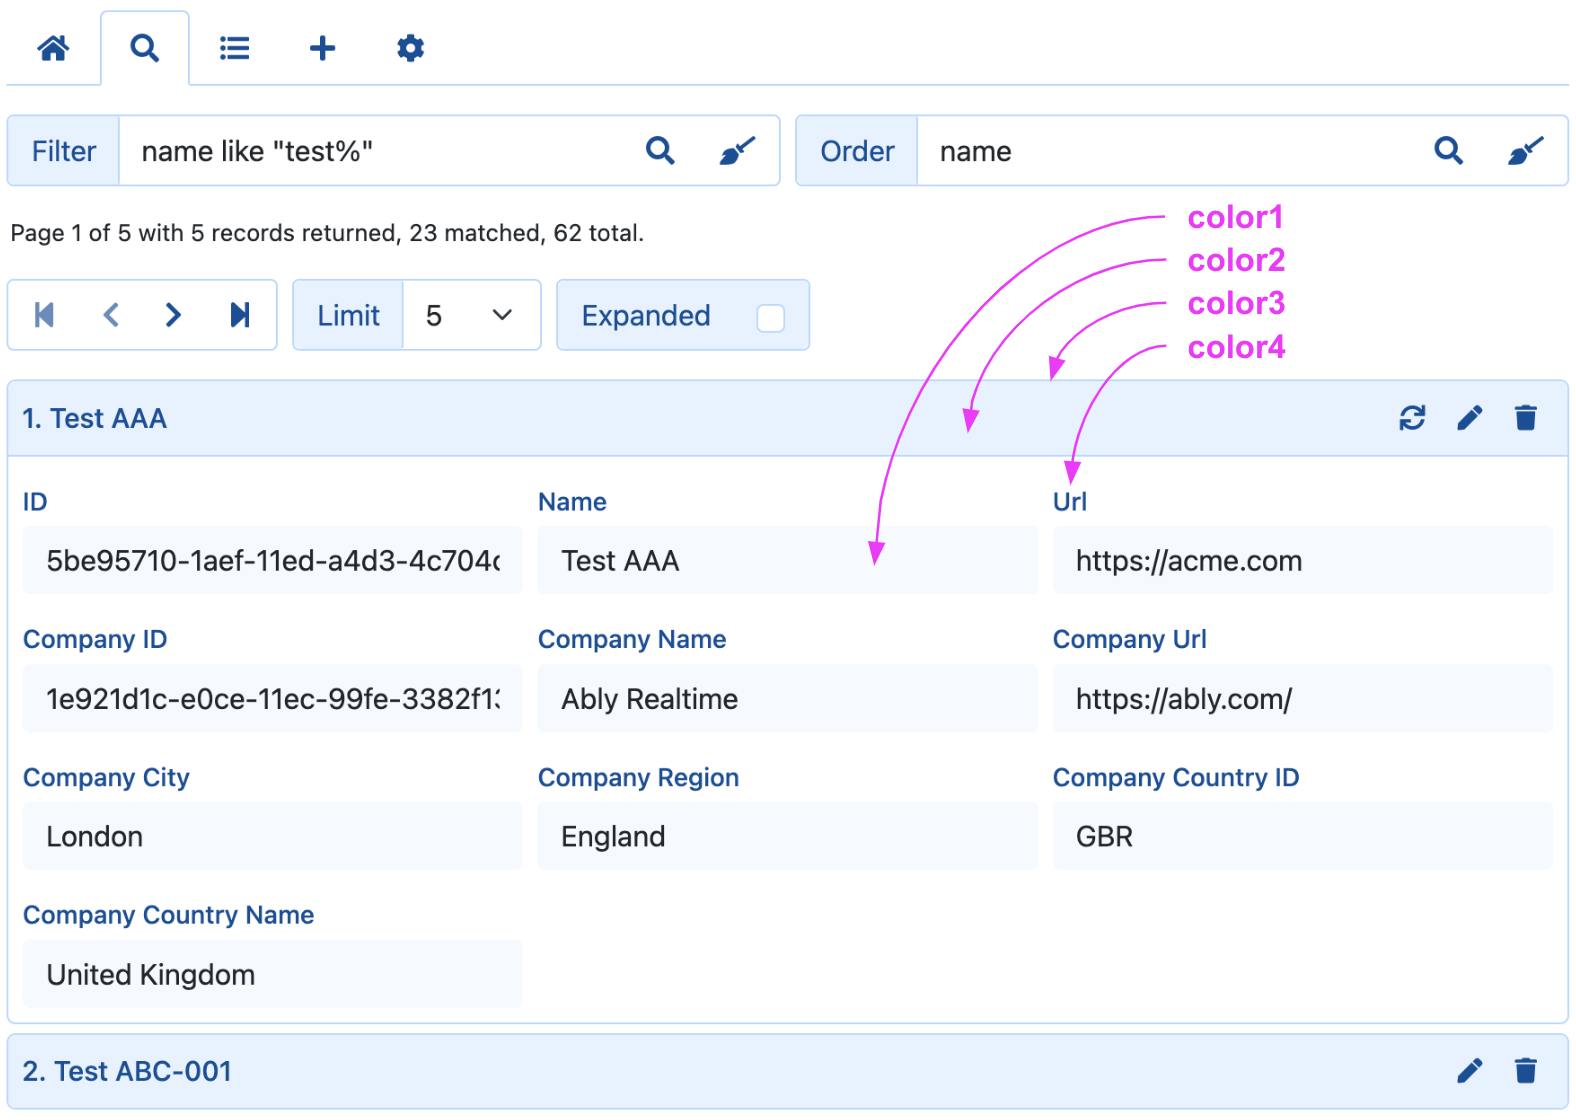
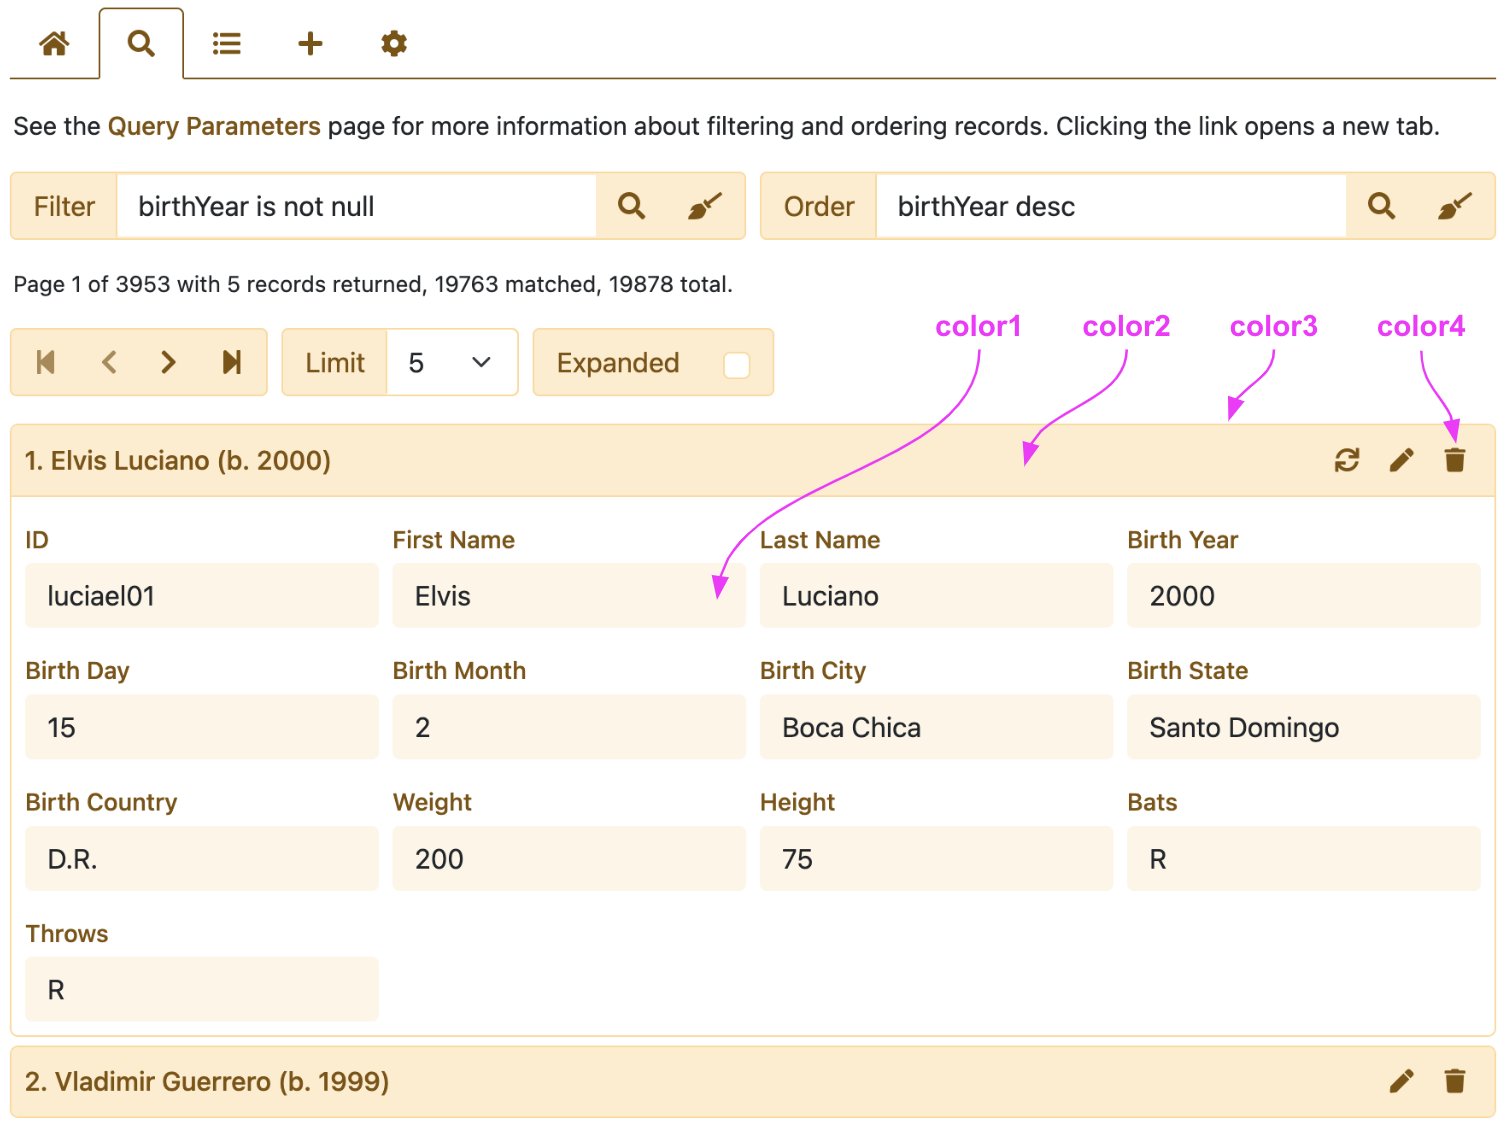
Augmenting themes.

diff --git a/assets/hhdatalist/HHDataList.css b/assets/hhdatalist/HHDataList.css
@@ -87,17 +87,20 @@ div.hh-data-list .form-check-input {
 * CONTROL ROW
 **********************************/
 
-div.hh-data-list ul.hh-tabs {
-  border-bottom-color: var(--hh-color-3) !important;
+div.hh-data-list ul.nav-tabs {
+  border-bottom: 1px solid var(--hh-color-4);
 }
 
-div.hh-data-list ul.hh-tabs button.nav-link {
-  border-color: transparent !important;
+div.hh-data-list ul.nav-tabs>li>button {
+  border: 1px solid transparent !important;
   color: var(--hh-color-4);
 }
 
-div.hh-data-list ul.hh-tabs button.nav-link.active {
-  border-color: var(--hh-color-3) var(--hh-color-3) #fff !important;
+div.hh-data-list ul.nav-tabs>li>button.active {
+  border-top-color: var(--hh-color-4) !important;
+  border-right-color: var(--hh-color-4) !important;
+  border-left-color: var(--hh-color-4) !important;
+  color: var(--hh-color-4);
 }
 
 div.hh-data-list div.hh-paginator,
@@ -105,6 +108,7 @@ div.hh-data-list div.hh-limiter,
 div.hh-data-list div.hh-expander,
 div.hh-data-list div.hh-filter-group,
 div.hh-data-list div.hh-order-group {
+  background: var(--hh-color-2);
   border: 1px solid var(--hh-color-3);
   border-radius: .25rem;
 }
@@ -171,6 +175,11 @@ div.hh-data-list div.hh-fields-wrapper {
 div.hh-data-list div.tab-content div.tab-pane div.hh-tab-description {
   font-size: 92%;
   margin-left: 2px;
+}
+
+div.hh-data-list div.tab-content div.tab-pane div.hh-tab-description>a {
+  color: var(--hh-color-4) !important;
+  font-weight: 500;
 }
 
 div.hh-data-list div.tab-content div.hh-home-pane button:not(:hover),

diff --git a/assets/hhdatalist/HHDataList.js b/assets/hhdatalist/HHDataList.js
@@ -1,5 +1,5 @@
 const hhDataListThemes = new Map();
-hhDataListThemes.set('blue', { color1: '#f5faff', color2: '#e6f2ff', color3: '#b3d9ff', color4: '#004d99' });
+hhDataListThemes.set('blue', { color1: '#edf3f8', color2: '#dae7f1', color3: '#b6cee2', color4: '#325d81' });
 hhDataListThemes.set('green', { color1: '#eafaea', color2: '#eafaea', color3: '#adebad', color4: '#196719' });
 hhDataListThemes.set('orange', { color1: '#fff6e6', color2: '#ffedcc', color3: '#ffdb99', color4: '#805300' });
 hhDataListThemes.set('red', { color1: '#fef8f7', color2: '#ffe6e6', color3: '#ffb3b3', color4: '#660000' });

diff --git a/en/docs/book.html b/en/docs/book.html
@@ -18,6 +18,8 @@
     <div id="en_docs_rest-api" class="chapter-title">REST API</div>
     <div class="pages" style="display:none;">
       <div id="en_docs_rest-api_examples" class="page-title">Examples</div>
+      <div id="en_docs_rest-api_query-parameters" class="page-title">Query Parameters</div>
+      <div id="en_docs_rest-api_status-codes" class="page-title">Status Codes</div>
     </div>
   </div>
 </div>

diff --git a/en/docs/hhdatalist/examples/index.md b/en/docs/hhdatalist/examples/index.md
@@ -4,59 +4,6 @@
 
 The Baseball API is a Hagenhaus REST API ...
 
-## Leagues
-
-<div id="baseball-leagues-datalist" class="hh-data-list"></div>
-
-<script>
-  new HHDataList({
-    confirm: confirm,
-    id: 'baseball-leagues-datalist',
-    recordColumnCount: 3,
-    recordIdField: 'lgID',
-    recordTitleFields: ['league'],
-    reportError: (error) => { reportError(error); },
-    reportInfo: (info) => { reportInfo(info); },
-    url: 'http://localhost:8081/api/baseball/v1/leagues',
-  });
-</script>
-
-## Managers
-
-<div id="baseball-managers-datalist" class="hh-data-list"></div>
-
-<script>
-  new HHDataList({
-    confirm: confirm,
-    id: 'baseball-managers-datalist',
-    recordColumnCount: 4,
-    recordIdField: 'ID',
-    recordTitleFields: ['playerID','yearID'],
-    recordTitleFormat: (f, r) => `${r[f[0]]} (${r[f[1]]})`,
-    reportError: (error) => { reportError(error); },
-    reportInfo: (info) => { reportInfo(info); },
-    theme: 'Red',
-    url: 'http://localhost:8081/api/baseball/v1/managers',
-  });
-</script>
-
-## Parks
-
-<div id="baseball-parks-datalist" class="hh-data-list"></div>
-
-<script>
-  new HHDataList({
-    confirm: confirm,
-    id: 'baseball-parks-datalist',
-    recordIdField: 'ID',
-    recordTitleFields: ['parkname'],
-    reportError: (error) => { reportError(error); },
-    reportInfo: (info) => { reportInfo(info); },
-    theme: 'green',
-    url: 'http://localhost:8081/api/baseball/v1/parks',
-  });
-</script>
-
 ## Players
 
 <div id="baseball-players-datalist" class="hh-data-list"></div>
@@ -78,16 +25,27 @@ The Baseball API is a Hagenhaus REST API ...
       { name: 'playerID', label: 'ID' },
       { name: 'nameFirst', label: 'First Name', isEditable: true, isRequired: true },
       { name: 'nameLast', label: 'Last Name', isEditable: true, isRequired: true },
+      { name: 'nameGiven', label: 'Given Name', isEditable: true, isRequired: true, isChecked: false },
       { name: 'birthDay', label: 'Birth Day', isEditable: true, isRequired: false },
       { name: 'birthMonth', label: 'Birth Month', isEditable: true, isRequired: false },
       { name: 'birthYear', label: 'Birth Year', isEditable: true, isRequired: false },
       { name: 'birthCity', label: 'Birth City', isEditable: true, isRequired: false },
       { name: 'birthState', label: 'Birth State', isEditable: true, isRequired: false },
       { name: 'birthCountry', label: 'Birth Country', isEditable: true, isRequired: false },
+      { name: 'deathDay', label: 'Death Day', isEditable: true, isRequired: false, isChecked: false },
+      { name: 'deathMonth', label: 'Death Month', isEditable: true, isRequired: false, isChecked: false },
+      { name: 'deathYear', label: 'Death Year', isEditable: true, isRequired: false, isChecked: false },
+      { name: 'deathCity', label: 'Death City', isEditable: true, isRequired: false, isChecked: false },
+      { name: 'deathState', label: 'Death State', isEditable: true, isRequired: false, isChecked: false },
+      { name: 'deathCountry', label: 'Death Country', isEditable: true, isRequired: false, isChecked: false },
       { name: 'weight', label: 'Weight', isEditable: true, isRequired: false },
       { name: 'height', label: 'Height', isEditable: true, isRequired: false },
       { name: 'bats', label: 'Bats', isEditable: true, isRequired: false },
       { name: 'throws', label: 'Throws', isEditable: true, isRequired: false },
+      { name: 'debut', label: 'Debut Date', isEditable: true, isRequired: false, isChecked: false },
+      { name: 'finalGame', label: 'Final Game Date', isEditable: true, isRequired: false, isChecked: false },
+      { name: 'retroID', label: 'retroID', isEditable: true, isRequired: false, isChecked: false },
+      { name: 'bbrefID', label: 'bbrefID', isEditable: true, isRequired: false, isChecked: false },    
     ],
     recordIdField: 'playerID',
     recordsAreExpanded: false,
@@ -96,16 +54,16 @@ The Baseball API is a Hagenhaus REST API ...
     recordTitleFormat: (f, r) => `${r[f[0]] ? r[f[0]] : ''} ${r[f[1]]} (b. ${r[f[2]] ? r[f[2]] : 'unknown'})`,
     reportError: (error) => { reportError(error); },
     reportInfo: (info) => { reportInfo(info); },
-    showTabDescriptions: false,
+    showTabDescriptions: true,
     tabDescriptions: {
       home: 'Neque porro quisquam est, qui dolorem ipsum quia dolor sit amet, consectetur, adipisci velit, sed quia non numquam eius modi tempora incidunt ut labore et dolore magnam aliquam quaerat voluptatem. Ut enim ad minima veniam, quis nostrum exercitationem ullam corporis suscipit laboriosam, nisi ut aliquid ex ea commodi consequatur? Quis autem vel eum iure reprehenderit qui in ea voluptate velit esse quam nihil molestiae consequatur, vel illum qui dolorem eum fugiat quo voluptas nulla pariatur',
-      search: 'At vero eos et accusamus et iusto odio dignissimos ducimus qui blanditiis praesentium voluptatum deleniti atque corrupti quos dolores et quas molestias excepturi sint occaecati cupiditate non provident, similique sunt in culpa qui officia deserunt mollitia animi, id est laborum et dolorum fuga. Et harum quidem rerum facilis est et expedita distinctio.',
+      search: 'See the <a href="/en/docs/rest-api/query-parameters/" target="_blank">Query Parameters</a> page for more information about filtering and ordering records. Clicking the link opens a new tab.',
       fields: 'Nam libero tempore, cum soluta nobis est eligendi optio cumque nihil impedit quo minus id quod maxime placeat facere possimus, omnis voluptas assumenda est, omnis dolor repellendus. Temporibus autem quibusdam et aut officiis debitis aut rerum necessitatibus saepe eveniet ut et voluptates repudiandae sint et molestiae non recusandae. Itaque earum rerum hic tenetur a sapiente delectus, ut aut reiciendis voluptatibus maiores alias consequatur aut perferendis doloribus asperiores repellat.',
       newCreate: 'Sed ut perspiciatis unde omnis iste natus error sit voluptatem accusantium doloremque laudantium, totam rem aperiam, eaque ipsa quae ab illo inventore veritatis et quasi architecto beatae vitae dicta sunt explicabo. Nemo enim ipsam voluptatem quia voluptas sit aspernatur aut odit aut fugit, sed quia consequuntur magni dolores eos qui ratione voluptatem sequi nesciunt.',
       newCreated: 'Excepteur sint occaecat cupidatat non proident, sunt in culpa qui officia deserunt mollit anim id est laborum.',
       config: 'Lorem ipsum dolor sit amet, consectetur adipiscing elit, sed do eiusmod tempor incididunt ut labore et dolore magna aliqua. Ut enim ad minim veniam, quis nostrud exercitation ullamco laboris nisi ut aliquip ex ea commodo consequat. Duis aute irure dolor in reprehenderit in voluptate velit esse cillum dolore eu fugiat nulla pariatur. Excepteur sint occaecat cupidatat non proident, sunt in culpa qui officia deserunt mollit anim id est laborum.'
     },
-    theme: 'orange',
+    theme: 'blue',
     url: 'http://localhost:8081/api/baseball/v1/players',
   });
 </script>
@@ -126,6 +84,60 @@ The Baseball API is a Hagenhaus REST API ...
     reportInfo: (info) => { reportInfo(info); },
     theme: 'silver',
     url: 'http://localhost:8081/api/baseball/v1/teams',
+  });
+</script>
+
+## Leagues
+
+<div id="baseball-leagues-datalist" class="hh-data-list"></div>
+
+<script>
+  new HHDataList({
+    confirm: confirm,
+    id: 'baseball-leagues-datalist',
+    recordColumnCount: 3,
+    recordIdField: 'lgID',
+    recordTitleFields: ['league'],
+    reportError: (error) => { reportError(error); },
+    reportInfo: (info) => { reportInfo(info); },
+    theme: 'orange',
+    url: 'http://localhost:8081/api/baseball/v1/leagues',
+  });
+</script>
+
+## Parks
+
+<div id="baseball-parks-datalist" class="hh-data-list"></div>
+
+<script>
+  new HHDataList({
+    confirm: confirm,
+    id: 'baseball-parks-datalist',
+    recordIdField: 'ID',
+    recordTitleFields: ['parkname'],
+    reportError: (error) => { reportError(error); },
+    reportInfo: (info) => { reportInfo(info); },
+    theme: 'green',
+    url: 'http://localhost:8081/api/baseball/v1/parks',
+  });
+</script>
+
+## Managers
+
+<div id="baseball-managers-datalist" class="hh-data-list"></div>
+
+<script>
+  new HHDataList({
+    confirm: confirm,
+    id: 'baseball-managers-datalist',
+    recordColumnCount: 4,
+    recordIdField: 'ID',
+    recordTitleFields: ['playerID','yearID'],
+    recordTitleFormat: (f, r) => `${r[f[0]]} (${r[f[1]]})`,
+    reportError: (error) => { reportError(error); },
+    reportInfo: (info) => { reportInfo(info); },
+    theme: 'Red',
+    url: 'http://localhost:8081/api/baseball/v1/managers',
   });
 </script>
 
@@ -169,7 +181,16 @@ The Baseball API is a Hagenhaus REST API ...
     recordTitleFormat: (f, r) => r[f[0]],
     reportError: (error) => { reportError(error); },
     reportInfo: (info) => { reportInfo(info); },
-    showTabDescriptions: false,
+    showTabDescriptions: true,
+    tabDescriptions: {
+      home: 'Neque porro quisquam est, qui dolorem ipsum quia dolor sit amet, consectetur, adipisci velit, sed quia non numquam eius modi tempora incidunt ut labore et dolore magnam aliquam quaerat voluptatem. Ut enim ad minima veniam, quis nostrum exercitationem ullam corporis suscipit laboriosam, nisi ut aliquid ex ea commodi consequatur? Quis autem vel eum iure reprehenderit qui in ea voluptate velit esse quam nihil molestiae consequatur, vel illum qui dolorem eum fugiat quo voluptas nulla pariatur',
+      search: 'At vero eos et accusamus et iusto odio dignissimos ducimus qui blanditiis praesentium voluptatum deleniti atque corrupti quos dolores et quas molestias excepturi sint occaecati cupiditate non provident, similique sunt in culpa qui officia deserunt mollitia animi, id est laborum et dolorum fuga. Et harum quidem rerum facilis est et expedita distinctio.',
+      fields: 'Nam libero tempore, cum soluta nobis est eligendi optio cumque nihil impedit quo minus id quod maxime placeat facere possimus, omnis voluptas assumenda est, omnis dolor repellendus. Temporibus autem quibusdam et aut officiis debitis aut rerum necessitatibus saepe eveniet ut et voluptates repudiandae sint et molestiae non recusandae. Itaque earum rerum hic tenetur a sapiente delectus, ut aut reiciendis voluptatibus maiores alias consequatur aut perferendis doloribus asperiores repellat.',
+      newCreate: 'Sed ut perspiciatis unde omnis iste natus error sit voluptatem accusantium doloremque laudantium, totam rem aperiam, eaque ipsa quae ab illo inventore veritatis et quasi architecto beatae vitae dicta sunt explicabo. Nemo enim ipsam voluptatem quia voluptas sit aspernatur aut odit aut fugit, sed quia consequuntur magni dolores eos qui ratione voluptatem sequi nesciunt.',
+      newCreated: 'Excepteur sint occaecat cupidatat non proident, sunt in culpa qui officia deserunt mollit anim id est laborum.',
+      config: 'Lorem ipsum dolor sit amet, consectetur adipiscing elit, sed do eiusmod tempor incididunt ut labore et dolore magna aliqua. Ut enim ad minim veniam, quis nostrud exercitation ullamco laboris nisi ut aliquip ex ea commodo consequat. Duis aute irure dolor in reprehenderit in voluptate velit esse cillum dolore eu fugiat nulla pariatur. Excepteur sint occaecat cupidatat non proident, sunt in culpa qui officia deserunt mollit anim id est laborum.'
+    },
+    theme: 'blue',
     urls: {
       deleteRecord: 'http://localhost:8081/api/devportals/v1/portals',
       getRecord: 'http://localhost:8081/api/devportals/v1/portals',

diff --git a/en/docs/hhdatalist/guide/index.md b/en/docs/hhdatalist/guide/index.md
@@ -2,7 +2,7 @@
 
 # User Interface
 
-<p><img src="ui.png" class="img-fluid d-block" width=900 height=432 loading="lazy"></p>
+<p><img src="ui.png" class="img-fluid d-block" width=800 height=567 loading="lazy"></p>
 
 # Assistive Technology
 
@@ -32,4 +32,4 @@ HHDataList generates an *information* message when a request returns successfull
 
 # Themes
 
-<p><img src="theme-colors.png" class="img-fluid d-block" width=800 height=569 loading="lazy"></p>
+<p><img src="theme-colors.png" class="img-fluid d-block" width=685 height=512 loading="lazy"></p>

diff --git a/en/docs/hhdatalist/tutorial/index.md b/en/docs/hhdatalist/tutorial/index.md
@@ -37,3 +37,5 @@
 # Notes
 
 1. It is useful to use swagger to get a field list. Use the field list to define recordFields.
+1. Clear fields and then add them in the order you want to see them. Like, for Baseball Players, add first name, last name, birth year, death year. 
+1. Find all the players where playerID != bbrefID.

diff --git a/en/docs/rest-api/query-parameters/index.md b/en/docs/rest-api/query-parameters/index.md
@@ -1,0 +1,22 @@
+# Query Parameters
+
+https://www.w3resource.com/mysql/comparision-functions-and-operators/not-equal-operator.php
+
+# allowJoinedFields
+
+# fields
+
+# filter
+
+# hasFieldList
+
+# hasMetadata
+
+# hasRecords
+
+# limit
+
+# order
+
+# page
+

diff --git a/en/docs/rest-api/status-codes/index.md b/en/docs/rest-api/status-codes/index.md
@@ -1,0 +1,2 @@
+# Status Codes
+
